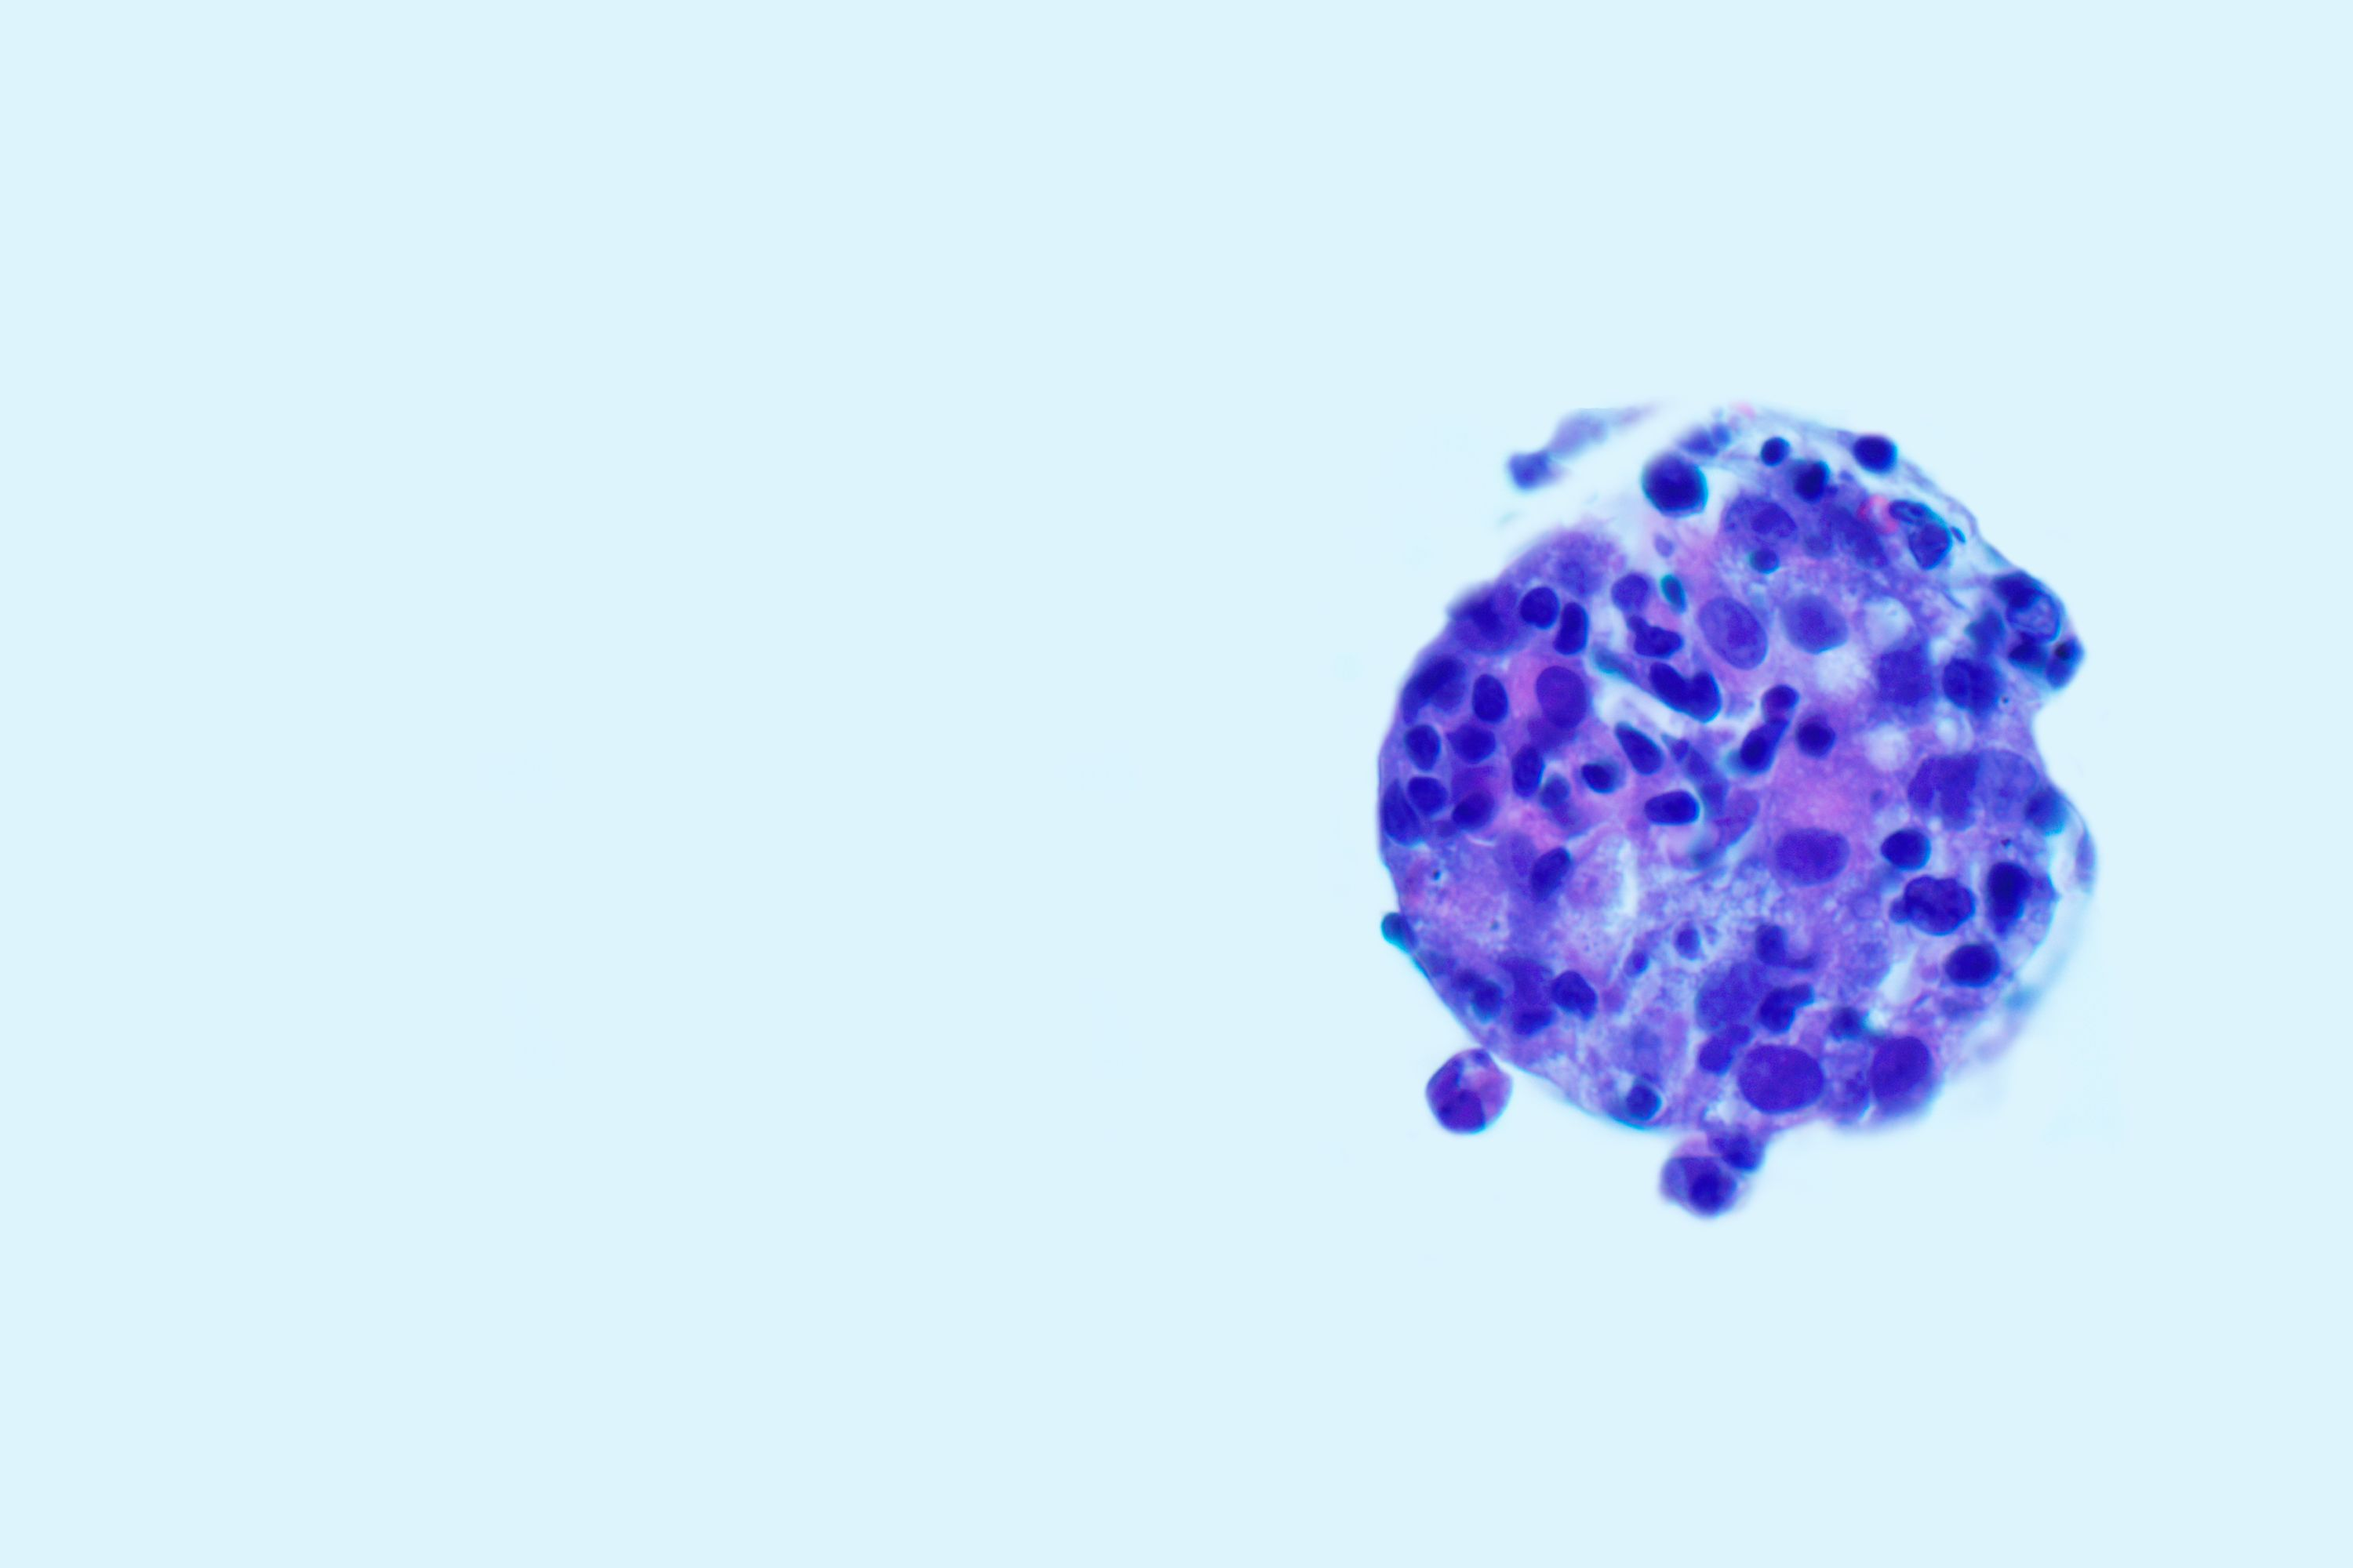
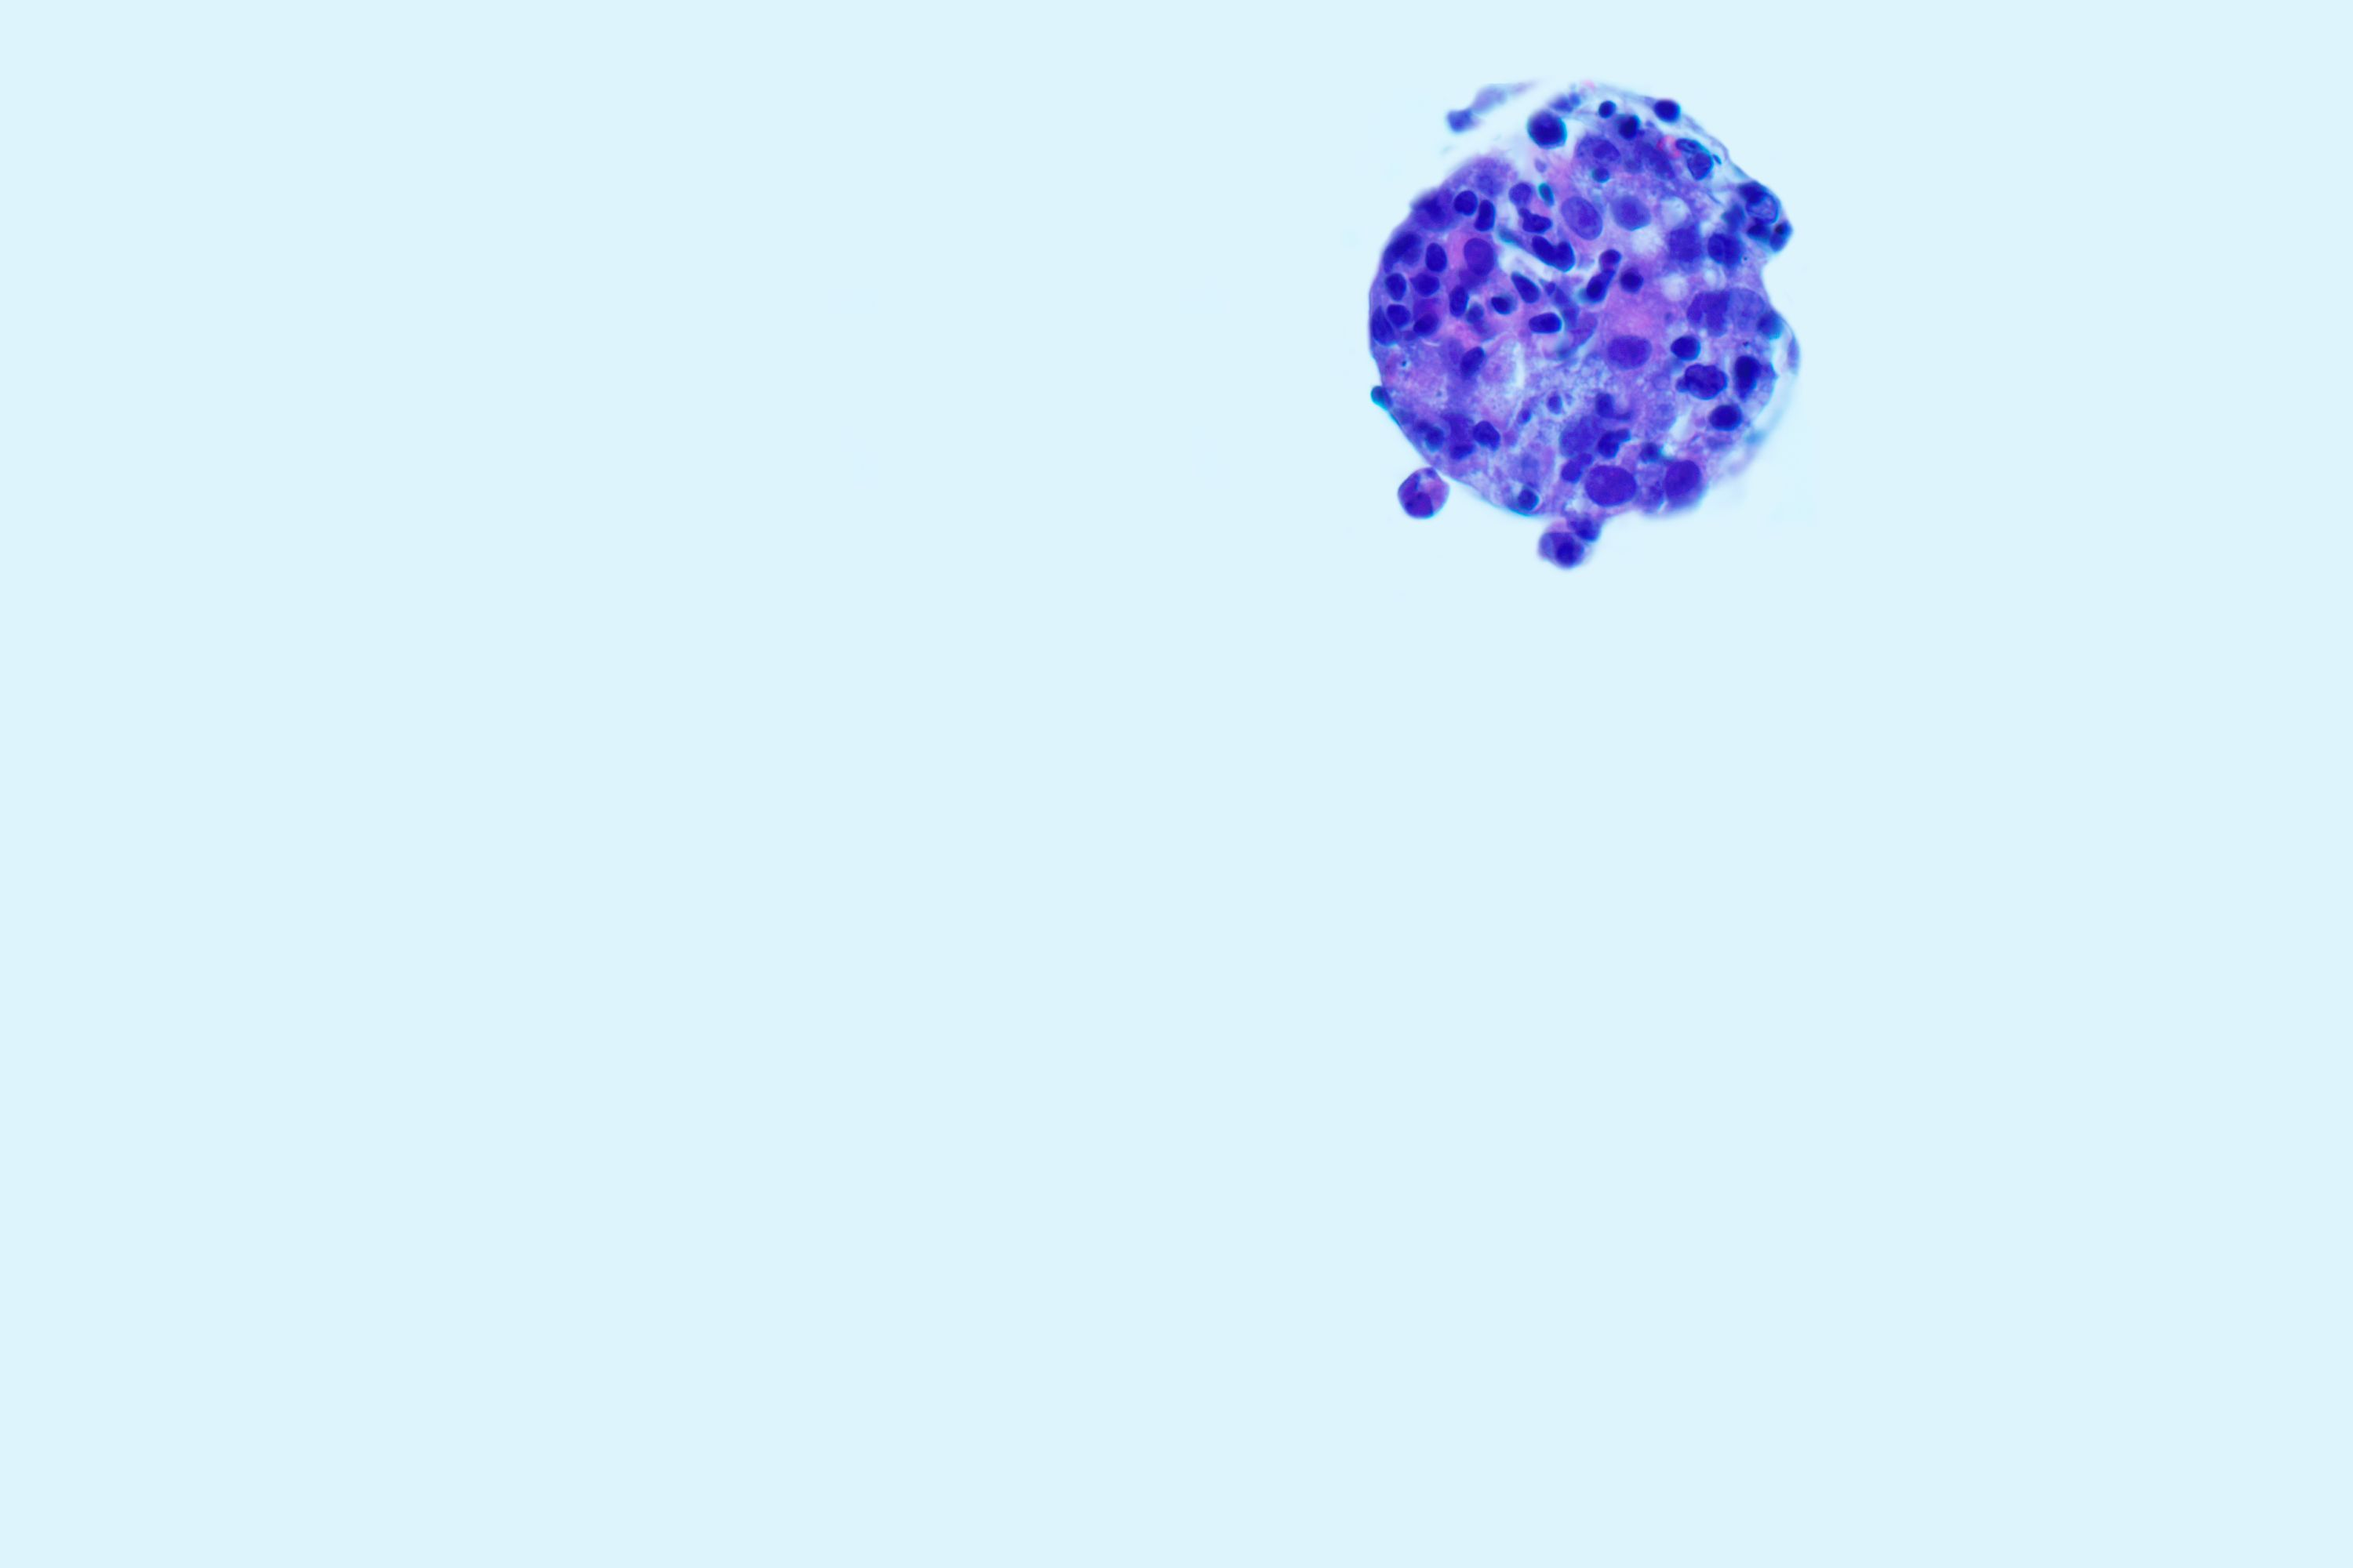
comp img

Changed region(s): [[0.558, 0.031, 0.899, 0.775]]

diff --git a/public/stylesheets/style.css b/public/stylesheets/style.css
@@ -266,7 +266,7 @@ h2{
      cursor: pointer;
  }
 .homeimg{
-    background: url(../images/HomePageNew2.png) no-repeat center center;
+    background: url(../images/HomePageNew2-compressed.jpg) no-repeat center center;
      background-position: -0px -25px;
 }
 .faqimg{
